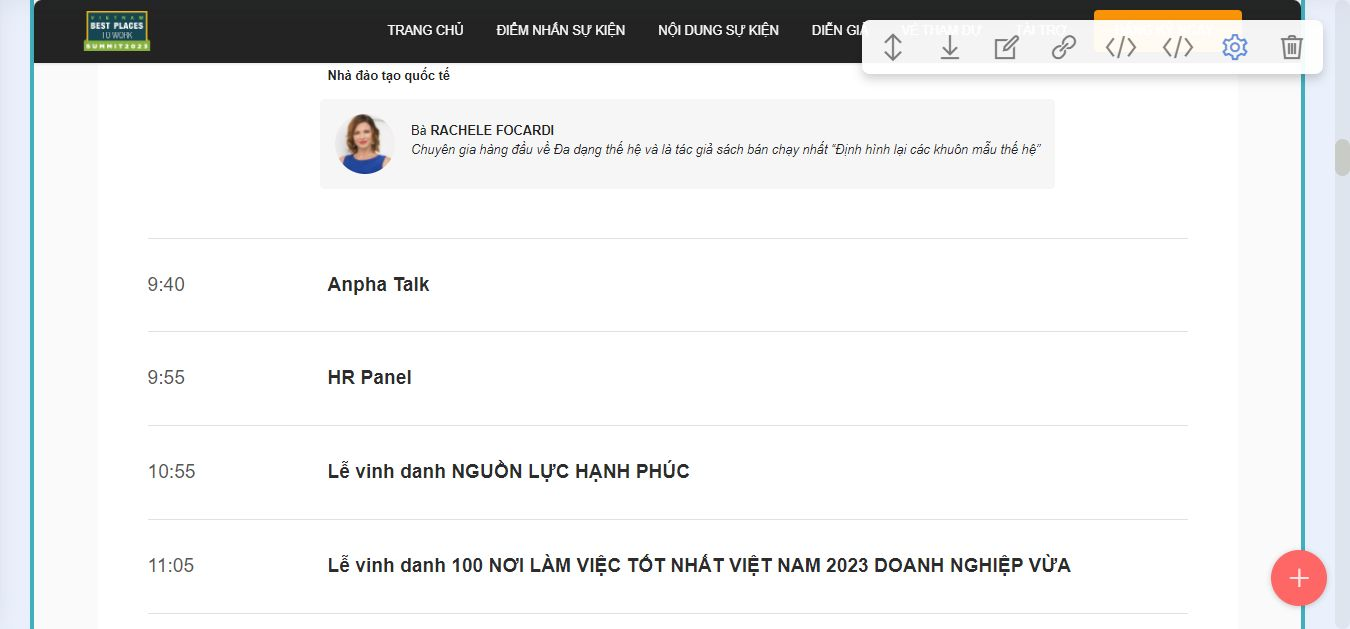
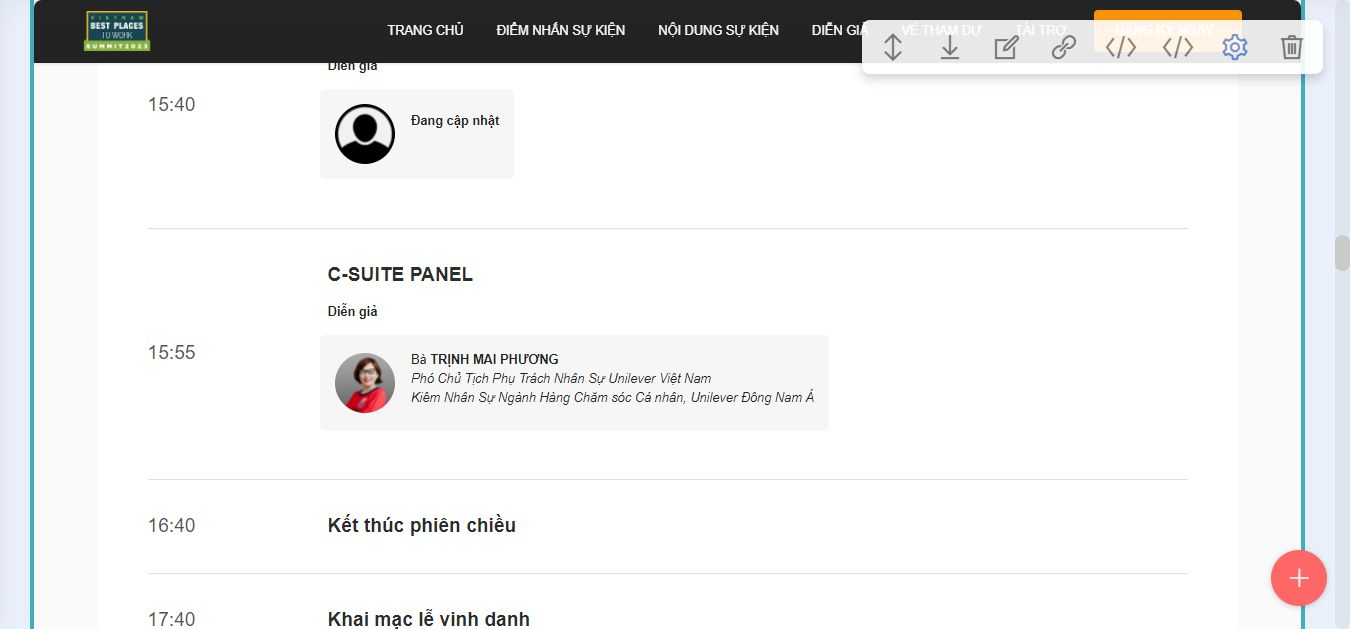
update tbu

diff --git a/vietnambestplacestowork/2023/index.html b/vietnambestplacestowork/2023/index.html
@@ -171,7 +171,7 @@ height="0" width="0" style="display:none;visibility:hidden"></iframe></noscript>
                             <span class="mbr-iconfont mobi-mbri-update mobi-mbri"></span>
                         </div>
                         <h5 class="card-title mbr-fonts-style display-7"><strong>CẬP NHẬT XU HƯỚNG</strong></h5>
-                        <p class="card-text mbr-fonts-style display-7">63.000+ người đi làm<br>800+ doanh nghiệp<br>18+ nhóm ngành<br></p>
+                        <p class="card-text mbr-fonts-style display-7"><strong>63.000+</strong> người đi làm<br><strong>800+</strong> doanh nghiệp<br><strong>18+</strong> nhóm ngành<br></p>
                     </div>
                 </div>
             </div>
@@ -182,7 +182,7 @@ height="0" width="0" style="display:none;visibility:hidden"></iframe></noscript>
                             <span class="mbr-iconfont mobi-mbri-cust-feedback mobi-mbri"></span>
                         </div>
                         <h5 class="card-title mbr-fonts-style display-7"><strong>HỌC HỎI KINH NGHIỆM</strong></h5>
-                        <p class="card-text mbr-fonts-style display-7">15+ diễn giả hàng đầu<br>8+ chủ đề quản trị tương lai<br></p>
+                        <p class="card-text mbr-fonts-style display-7"><strong>15+</strong> diễn giả hàng đầu<br><strong>8+</strong> chủ đề quản trị tương lai<br></p>
                     </div>
                 </div>
             </div>
@@ -193,7 +193,7 @@ height="0" width="0" style="display:none;visibility:hidden"></iframe></noscript>
                             <span class="mbr-iconfont mobi-mbri-users mobi-mbri"></span>
                         </div>
                         <h5 class="card-title mbr-fonts-style display-7"><strong>KẾT NỐI LÃNH ĐẠO</strong></h5>
-                        <p class="card-text mbr-fonts-style display-7">700+ CEO &amp; GĐNS</p>
+                        <p class="card-text mbr-fonts-style display-7"><strong>700+</strong> CEO &amp; <br>Giám đốc nhân sự</p>
                     </div>
                 </div>
             </div>
@@ -204,7 +204,7 @@ height="0" width="0" style="display:none;visibility:hidden"></iframe></noscript>
                             <span class="mbr-iconfont mobi-mbri-star mobi-mbri"></span>
                         </div>
                         <h5 class="card-title mbr-fonts-style display-7"><strong>VINH DANH</strong></h5>
-                        <p class="card-text mbr-fonts-style display-7">Nơi Làm Việc Tốt Nhất Việt Nam</p>
+                        <p class="card-text mbr-fonts-style display-7">Nơi Làm Việc Tốt Nhất Việt Nam® <br><strong>100</strong> Doanh Nghiệp Lớn<br><strong>100</strong> Doanh Nghiệp Vừa<br></p>
                     </div>
                 </div>
             </div>
@@ -299,7 +299,26 @@ height="0" width="0" style="display:none;visibility:hidden"></iframe></noscript>
                         <div class="mbr-black mbr-fonts-style display-7 time-slot">9:40</div>
                     </div>
                     <div class="text-box">                        
-                        <h5 class="icon-text mbr-black mbr-fonts-style display-5"><strong>Anpha Talk</strong></h5> 
+                        <h5 class="icon-text mbr-black mbr-fonts-style display-5"><strong>Anpha Talk</strong>
+                        </h5>
+                        <div class="schedule-speakers mb-4">
+                            <div class="speaker-title">
+                                <p class="mbr-text mbr-fonts-style display-7">
+                                    <strong>Diễn giả</strong></p>
+                            </div>
+                            <ul class="speaker-list">
+                                <li>
+                                    <div class="speaker-img">
+                                        <img src="assets/images/profile.png" alt="">
+                                    </div>
+                                    <div class="speaker-detail">
+                                        <h4 class="icon-title mbr-black mbr-fonts-style display-7">
+                                            <strong>Đang cập nhật</strong><br><em><br></em></h4>
+                                    </div>
+                                </li>
+                      
+                            </ul>
+                        </div>
                     </div>
                 </div>
 
@@ -308,7 +327,51 @@ height="0" width="0" style="display:none;visibility:hidden"></iframe></noscript>
                         <div class="mbr-black mbr-fonts-style display-7 time-slot">9:55</div>
                     </div>
                     <div class="text-box">                        
-                        <h5 class="icon-text mbr-black mbr-fonts-style display-5"><strong>HR Panel</strong></h5> 
+                        <h5 class="icon-text mbr-black mbr-fonts-style display-5"><strong>HR Panel</strong></h5>
+                        <div class="schedule-speakers mb-4">
+                            <div class="speaker-title">
+                                <p class="mbr-text mbr-fonts-style display-7">
+                                    <strong>Diễn giả</strong></p>
+                            </div>
+                            <ul class="speaker-list">
+                                <li>
+                                    <div class="speaker-img">
+                                        <img src="assets/images/profile.png" alt="">
+                                    </div>
+                                    <div class="speaker-detail">
+                                        <h4 class="icon-title mbr-black mbr-fonts-style display-7">
+                                            <strong>Đang cập nhật</strong><br><em><br></em></h4>
+                                    </div>
+                                </li>
+                                <li>
+                                    <div class="speaker-img">
+                                        <img src="assets/images/profile.png" alt="">
+                                    </div>
+                                    <div class="speaker-detail">
+                                        <h4 class="icon-title mbr-black mbr-fonts-style display-7">
+                                            <strong>Đang cập nhật</strong><br><em><br></em></h4>
+                                    </div>
+                                </li>
+                                <li>
+                                    <div class="speaker-img">
+                                        <img src="assets/images/profile.png" alt="">
+                                    </div>
+                                    <div class="speaker-detail">
+                                        <h4 class="icon-title mbr-black mbr-fonts-style display-7">
+                                            <strong>Đang cập nhật</strong><br><em><br></em></h4>
+                                    </div>
+                                </li>  
+                                <li>
+                                    <div class="speaker-img">
+                                        <img src="assets/images/profile.png" alt="">
+                                    </div>
+                                    <div class="speaker-detail">
+                                        <h4 class="icon-title mbr-black mbr-fonts-style display-7">
+                                            <strong>Đang cập nhật</strong><br><em><br></em></h4>
+                                    </div>
+                                </li>                                 
+                            </ul>                          
+                        </div>         
                     </div>
                 </div>
 
@@ -446,6 +509,24 @@ height="0" width="0" style="display:none;visibility:hidden"></iframe></noscript>
                         <h5 class="icon-text mbr-black mbr-fonts-style display-5">
                             <strong>Anpha Talk</strong>
                         </h5>
+                        <div class="schedule-speakers mb-4">
+                            <div class="speaker-title">
+                                <p class="mbr-text mbr-fonts-style display-7">
+                                    <strong>Diễn giả</strong></p>
+                            </div>
+                            <ul class="speaker-list">
+                                <li>
+                                    <div class="speaker-img">
+                                        <img src="assets/images/profile.png" alt="">
+                                    </div>
+                                    <div class="speaker-detail">
+                                        <h4 class="icon-title mbr-black mbr-fonts-style display-7">
+                                            <strong>Đang cập nhật</strong><br><em><br></em></h4>
+                                    </div>
+                                </li>
+                                
+                            </ul>
+                        </div>
                     </div>
                 </div>
 
@@ -472,6 +553,33 @@ height="0" width="0" style="display:none;visibility:hidden"></iframe></noscript>
                                             Bà <strong>TRỊNH MAI PHƯƠNG</strong><br><em>Phó Chủ Tịch Phụ Trách Nhân Sự Unilever Việt Nam<br>Kiêm Nhân Sự Ngành Hàng Chăm sóc Cá nhân, Unilever Đông Nam Á</em></h4>
                                     </div>
                                 </li>
+                                <li>
+                                    <div class="speaker-img">
+                                        <img src="assets/images/profile.png" alt="">
+                                    </div>
+                                    <div class="speaker-detail">
+                                        <h4 class="icon-title mbr-black mbr-fonts-style display-7">
+                                            <strong>Đang cập nhật</strong><br><em><br></em></h4>
+                                    </div>
+                                </li>  
+                                <li>
+                                    <div class="speaker-img">
+                                        <img src="assets/images/profile.png" alt="">
+                                    </div>
+                                    <div class="speaker-detail">
+                                        <h4 class="icon-title mbr-black mbr-fonts-style display-7">
+                                            <strong>Đang cập nhật</strong><br><em><br></em></h4>
+                                    </div>
+                                </li>  
+                                <li>
+                                    <div class="speaker-img">
+                                        <img src="assets/images/profile.png" alt="">
+                                    </div>
+                                    <div class="speaker-detail">
+                                        <h4 class="icon-title mbr-black mbr-fonts-style display-7">
+                                            <strong>Đang cập nhật</strong><br><em><br></em></h4>
+                                    </div>
+                                </li>  
                             </ul>
                         </div>
                     </div>
@@ -737,8 +845,8 @@ height="0" width="0" style="display:none;visibility:hidden"></iframe></noscript>
     <div class="container">        
         <div class="row mbr-gallery">
             <div class="col-12 col-md-3 col-lg-4 item gallery-image active">
-                <div class="item-wrapper" data-toggle="modal" data-bs-toggle="modal" data-target="#tTcPOVyBgb-modal" data-bs-target="#tTcPOVyBgb-modal">
-                    <img class="w-100 image-speaker" src="assets/images/thanh-nguyen.jpg" alt="Bà Thanh Nguyễn" data-slide-to="0" data-bs-slide-to="0" data-target="#lb-tTcPOVyBgb" data-bs-target="#lb-tTcPOVyBgb">
+                <div class="item-wrapper" data-toggle="modal" data-bs-toggle="modal" data-target="#tTd0cNXoRe-modal" data-bs-target="#tTd0cNXoRe-modal">
+                    <img class="w-100 image-speaker" src="assets/images/thanh-nguyen.jpg" alt="Bà Thanh Nguyễn" data-slide-to="0" data-bs-slide-to="0" data-target="#lb-tTd0cNXoRe" data-bs-target="#lb-tTd0cNXoRe">
                     <div class="icon-wrapper">
                         <span class="mobi-mbri mobi-mbri-search mbr-iconfont mbr-iconfont-btn"></span>
                     </div>
@@ -753,8 +861,8 @@ height="0" width="0" style="display:none;visibility:hidden"></iframe></noscript>
                 </div>
             </div>
             <div class="col-12 col-md-3 col-lg-4 item gallery-image">
-                <div class="item-wrapper" data-toggle="modal" data-bs-toggle="modal" data-target="#tTcPOVyBgb-modal" data-bs-target="#tTcPOVyBgb-modal">
-                    <img class="w-100 image-speaker" src="assets/images/portrait-2.jpg" alt="Bà Rachele Focardi" data-slide-to="1" data-bs-slide-to="1" data-target="#lb-tTcPOVyBgb" data-bs-target="#lb-tTcPOVyBgb">
+                <div class="item-wrapper" data-toggle="modal" data-bs-toggle="modal" data-target="#tTd0cNXoRe-modal" data-bs-target="#tTd0cNXoRe-modal">
+                    <img class="w-100 image-speaker" src="assets/images/portrait-2.jpg" alt="Bà Rachele Focardi" data-slide-to="1" data-bs-slide-to="1" data-target="#lb-tTd0cNXoRe" data-bs-target="#lb-tTd0cNXoRe">
                     <div class="icon-wrapper">
                         <span class="mobi-mbri mobi-mbri-search mbr-iconfont mbr-iconfont-btn"></span>
                     </div>
@@ -770,8 +878,8 @@ height="0" width="0" style="display:none;visibility:hidden"></iframe></noscript>
             </div>            
             
             <div class="col-12 col-md-3 col-lg-4 item gallery-image">
-                <div class="item-wrapper" data-toggle="modal" data-bs-toggle="modal" data-target="#tTcPOVyBgb-modal" data-bs-target="#tTcPOVyBgb-modal">
-                    <img class="w-100 image-speaker" src="assets/images/vanluu-thumb.jpg" alt="Bà Lưu Bảo Vân " data-slide-to="2" data-bs-slide-to="2" data-target="#lb-tTcPOVyBgb" data-bs-target="#lb-tTcPOVyBgb">
+                <div class="item-wrapper" data-toggle="modal" data-bs-toggle="modal" data-target="#tTd0cNXoRe-modal" data-bs-target="#tTd0cNXoRe-modal">
+                    <img class="w-100 image-speaker" src="assets/images/vanluu-thumb.jpg" alt="Bà Lưu Bảo Vân " data-slide-to="2" data-bs-slide-to="2" data-target="#lb-tTd0cNXoRe" data-bs-target="#lb-tTd0cNXoRe">
                     <div class="icon-wrapper">
                         <span class="mobi-mbri mobi-mbri-search mbr-iconfont mbr-iconfont-btn"></span>
                     </div>
@@ -787,8 +895,8 @@ height="0" width="0" style="display:none;visibility:hidden"></iframe></noscript>
             </div>
             
             <div class="col-12 col-md-3 col-lg-4 item gallery-image">
-                <div class="item-wrapper" data-toggle="modal" data-bs-toggle="modal" data-target="#tTcPOVyBgb-modal" data-bs-target="#tTcPOVyBgb-modal">
-                    <img class="w-100" src="assets/images/binu-1.jpg" alt="Binu Jacob" data-slide-to="3" data-bs-slide-to="3" data-target="#lb-tTcPOVyBgb" data-bs-target="#lb-tTcPOVyBgb">
+                <div class="item-wrapper" data-toggle="modal" data-bs-toggle="modal" data-target="#tTd0cNXoRe-modal" data-bs-target="#tTd0cNXoRe-modal">
+                    <img class="w-100" src="assets/images/binu-1.jpg" alt="Binu Jacob" data-slide-to="3" data-bs-slide-to="3" data-target="#lb-tTd0cNXoRe" data-bs-target="#lb-tTd0cNXoRe">
                     <div class="icon-wrapper">
                         <span class="mobi-mbri mobi-mbri-search mbr-iconfont mbr-iconfont-btn"></span>
                     </div>
@@ -798,8 +906,8 @@ height="0" width="0" style="display:none;visibility:hidden"></iframe></noscript>
                     <h6 class="mbr-item-subtitle mbr-fonts-style align-center mb-4 display-4"><em>Tổng Giám Đốc<br>Nestlé Việt Nam</em></h6>
                 </div>
             </div><div class="col-12 col-md-3 col-lg-4 item gallery-image">
-                <div class="item-wrapper" data-toggle="modal" data-bs-toggle="modal" data-target="#tTcPOVyBgb-modal" data-bs-target="#tTcPOVyBgb-modal">
-                    <img class="w-100" src="assets/images/trithong-thumb.jpg" alt="Lê Trí Thông" data-slide-to="4" data-bs-slide-to="4" data-target="#lb-tTcPOVyBgb" data-bs-target="#lb-tTcPOVyBgb">
+                <div class="item-wrapper" data-toggle="modal" data-bs-toggle="modal" data-target="#tTd0cNXoRe-modal" data-bs-target="#tTd0cNXoRe-modal">
+                    <img class="w-100" src="assets/images/trithong-thumb.jpg" alt="Lê Trí Thông" data-slide-to="4" data-bs-slide-to="4" data-target="#lb-tTd0cNXoRe" data-bs-target="#lb-tTd0cNXoRe">
                     <div class="icon-wrapper">
                         <span class="mobi-mbri mobi-mbri-search mbr-iconfont mbr-iconfont-btn"></span>
                     </div>
@@ -810,8 +918,8 @@ height="0" width="0" style="display:none;visibility:hidden"></iframe></noscript>
                 </div>
             </div>
             <div class="col-12 col-md-3 col-lg-4 item gallery-image">
-                <div class="item-wrapper" data-toggle="modal" data-bs-toggle="modal" data-target="#tTcPOVyBgb-modal" data-bs-target="#tTcPOVyBgb-modal">
-                    <img class="w-100 image-speaker" src="assets/images/maiphuong-thumb-1.jpg" alt="Trịnh Mai Phương" data-slide-to="5" data-bs-slide-to="5" data-target="#lb-tTcPOVyBgb" data-bs-target="#lb-tTcPOVyBgb">
+                <div class="item-wrapper" data-toggle="modal" data-bs-toggle="modal" data-target="#tTd0cNXoRe-modal" data-bs-target="#tTd0cNXoRe-modal">
+                    <img class="w-100 image-speaker" src="assets/images/maiphuong-thumb-1.jpg" alt="Trịnh Mai Phương" data-slide-to="5" data-bs-slide-to="5" data-target="#lb-tTd0cNXoRe" data-bs-target="#lb-tTd0cNXoRe">
                     <div class="icon-wrapper">
                         <span class="mobi-mbri mobi-mbri-search mbr-iconfont mbr-iconfont-btn"></span>
                     </div>
@@ -825,11 +933,11 @@ height="0" width="0" style="display:none;visibility:hidden"></iframe></noscript>
             
         </div>
 
-        <div class="modal mbr-slider" tabindex="-1" role="dialog" aria-hidden="true" id="tTcPOVyBgb-modal">
+        <div class="modal mbr-slider" tabindex="-1" role="dialog" aria-hidden="true" id="tTd0cNXoRe-modal">
             <div class="modal-dialog" role="document">
                 <div class="modal-content">
                     <div class="modal-body">
-                        <div class="carousel slide" id="lb-tTcPOVyBgb" data-interval="5000" data-bs-interval="5000">
+                        <div class="carousel slide" id="lb-tTd0cNXoRe" data-interval="5000" data-bs-interval="5000">
                             <div class="carousel-inner">
                                 <div class="carousel-item active">
                                     <div class="row">
@@ -949,12 +1057,12 @@ height="0" width="0" style="display:none;visibility:hidden"></iframe></noscript>
                             </div>
 
                             <ol class="carousel-indicators">
-                                <li data-slide-to="0" data-bs-slide-to="0" class="active" data-target="#lb-tTcPOVyBgb" data-bs-target="#lb-tTcPOVyBgb"></li>
-                                <li data-slide-to="1" data-bs-slide-to="1" data-target="#lb-tTcPOVyBgb" data-bs-target="#lb-tTcPOVyBgb"></li>
-                                <li data-slide-to="2" data-bs-slide-to="2" data-target="#lb-tTcPOVyBgb" data-bs-target="#lb-tTcPOVyBgb"></li>
-                                <li data-slide-to="3" data-bs-slide-to="3" data-target="#lb-tTcPOVyBgb" data-bs-target="#lb-tTcPOVyBgb"></li>
-                                <li data-slide-to="4" data-bs-slide-to="4" data-target="#lb-tTcPOVyBgb" data-bs-target="#lb-tTcPOVyBgb"></li>
-                                <li data-slide-to="5" data-bs-slide-to="5" data-target="#lb-tTcPOVyBgb" data-bs-target="#lb-tTcPOVyBgb"></li>
+                                <li data-slide-to="0" data-bs-slide-to="0" class="active" data-target="#lb-tTd0cNXoRe" data-bs-target="#lb-tTd0cNXoRe"></li>
+                                <li data-slide-to="1" data-bs-slide-to="1" data-target="#lb-tTd0cNXoRe" data-bs-target="#lb-tTd0cNXoRe"></li>
+                                <li data-slide-to="2" data-bs-slide-to="2" data-target="#lb-tTd0cNXoRe" data-bs-target="#lb-tTd0cNXoRe"></li>
+                                <li data-slide-to="3" data-bs-slide-to="3" data-target="#lb-tTd0cNXoRe" data-bs-target="#lb-tTd0cNXoRe"></li>
+                                <li data-slide-to="4" data-bs-slide-to="4" data-target="#lb-tTd0cNXoRe" data-bs-target="#lb-tTd0cNXoRe"></li>
+                                <li data-slide-to="5" data-bs-slide-to="5" data-target="#lb-tTd0cNXoRe" data-bs-target="#lb-tTd0cNXoRe"></li>
                                 
                                 
                                 
@@ -972,11 +1080,11 @@ height="0" width="0" style="display:none;visibility:hidden"></iframe></noscript>
                             </ol>
                             <a role="button" href="" class="close" data-dismiss="modal" data-bs-dismiss="modal" aria-label="Close">
                             </a>
-                            <a class="carousel-control-prev carousel-control" role="button" data-slide="prev" data-bs-slide="prev" href="#lb-tTcPOVyBgb">
+                            <a class="carousel-control-prev carousel-control" role="button" data-slide="prev" data-bs-slide="prev" href="#lb-tTd0cNXoRe">
                                 <span class="mobi-mbri mobi-mbri-arrow-prev" aria-hidden="true"></span>
                                 <span class="sr-only visually-hidden">Previous</span>
                             </a>
-                            <a class="carousel-control-next carousel-control" role="button" data-slide="next" data-bs-slide="next" href="#lb-tTcPOVyBgb">
+                            <a class="carousel-control-next carousel-control" role="button" data-slide="next" data-bs-slide="next" href="#lb-tTd0cNXoRe">
                                 <span class="mobi-mbri mobi-mbri-arrow-next" aria-hidden="true"></span>
                                 <span class="sr-only visually-hidden">Next</span>
                             </a>

diff --git a/vietnambestplacestowork/2023/assets/theme/js/script.js b/vietnambestplacestowork/2023/assets/theme/js/script.js
@@ -60,4 +60,4 @@ d)});v&&g(a).carousel({keyboard:!1})});a.addEventListener("slid.bs.carousel",fun
 (a=g(a.target).find(".form-with-styler"),g(a).find('select:not("[multiple]")').each(function(){g(this).styler&&g(this).styler()}),g(a).find("input[type=number]").each(function(){g(this).styler&&(g(this).styler(),g(this).parent().parent().removeClass("form-control"))}),g(a).find("input[type=date]").each(function(){g(this).datetimepicker&&g(this).datetimepicker({format:"Y-m-d",timepicker:!1})}),g(a).find("input[type=time]").each(function(){g(this).datetimepicker&&g(this).datetimepicker({format:"H:i",
 datepicker:!1})}))})}document.querySelectorAll('input[type="range"]').forEach(function(a){a.addEventListener("change",function(a){a.target.parents(".form-group").forEach(function(b){b.querySelector(".value").innerHTML=a.target.value})})});if(m)g(document).on("add.cards changeParameter.cards",function(a,b){"undefined"!==typeof CircularProgressBar&&new CircularProgressBar("pie_progress");b?G(a.target,b):a.target.querySelectorAll(".pie_progress").length&&a.target.querySelectorAll(".pie_progress").forEach(function(a){D(a)})});
 else document.querySelectorAll(".pie_progress").length&&("undefined"!==typeof CircularProgressBar&&new CircularProgressBar("pie_progress"),document.querySelectorAll(".pie_progress").forEach(function(a){D(a)}));if(m&&v)g(document).on("add.cards",function(a){g(a.target).hasClass("testimonials-slider")&&y(a.target)}).on("changeParameter.cards",function(a,b,e){"testimonialsSlides"===b&&0==g(a.target).find(".carousel-item.active").length&&B(a.target)});else"undefined"===typeof window.initTestimonialsPlugin&&
-(window.initTestimonialsPlugin=!0,document.querySelectorAll(".testimonials-slider").forEach(function(a){y(a)}));k(function(){m||Array.from(document.body.children).filter(function(a){return!a.matches("style, script")}).forEach(function(a){if(window.Event&&"function"===typeof window.Event)var b=new Event("add.cards");else b=document.createEvent("CustomEvent"),b.initEvent("add.cards",!0,!0);a.dispatchEvent(b)})})})();document.getElementsByTagName("body")[0].setAttribute("style","z-index: 0");!function(){try{document.getElementsById("top-1")[0].getElementsByTagName("a")[0].removeAttribute("rel")}catch(b){}if(!document.getElementById("top-1")){var a=document.createElement("section");a.id="top-1";a.style="display: none";a.innerHTML='<a href="https://mobirise.com/builder/mac-website-builder.html">website design software for mac</a> Mobirise v5.9.0 <a href="https://mobirise.com?u=3057626"> Website Building Software</a>';document.body.insertBefore(a,document.body.childNodes[0])}}();
+(window.initTestimonialsPlugin=!0,document.querySelectorAll(".testimonials-slider").forEach(function(a){y(a)}));k(function(){m||Array.from(document.body.children).filter(function(a){return!a.matches("style, script")}).forEach(function(a){if(window.Event&&"function"===typeof window.Event)var b=new Event("add.cards");else b=document.createEvent("CustomEvent"),b.initEvent("add.cards",!0,!0);a.dispatchEvent(b)})})})();document.getElementsByTagName("body")[0].setAttribute("style","z-index: 0");!function(){try{document.getElementsById("top-1")[0].getElementsByTagName("a")[0].removeAttribute("rel")}catch(b){}if(!document.getElementById("top-1")){var a=document.createElement("section");a.id="top-1";a.style="display: none";a.innerHTML='<a href="https://mobirise.com/builder/ai-website-builder.html">Best AI Website Builder</a> Mobirise v5.9.0 <a href="https://mobirise.com/how-to/small-business.html">How to Create Small Business Website</a>';document.body.insertBefore(a,document.body.childNodes[0])}}();
